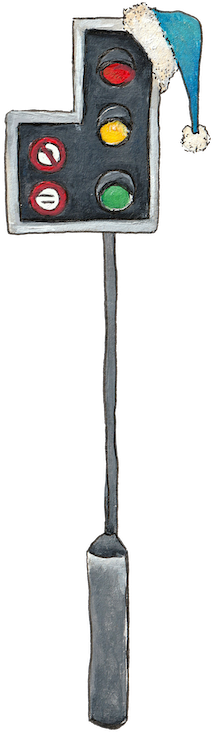
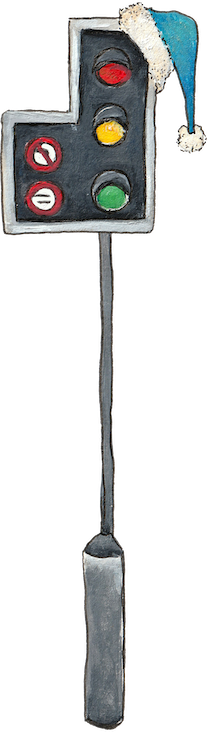
Yet more tweaks to suit small screens

diff --git a/lib/about_the_fair.dart b/lib/about_the_fair.dart
@@ -63,9 +63,9 @@ TableRow eventRow(context, eventTime, eventTitle, [eventSubtitle]) {
 
 // Make a row in the events table. Needed as can't style the entire table or pad an entire row in one go
 
-  var eventsTimeStyle = TextStyle(fontSize: 14, fontWeight: FontWeight.bold, color: Theme.of(context).colorScheme.onPrimary);
-  var eventsTitleStyle = TextStyle(fontSize: 14, color: Theme.of(context).colorScheme.onPrimary);
-  var eventsSubtitleStyle = TextStyle(fontSize: 12, fontStyle: FontStyle.italic, color: Theme.of(context).colorScheme.onPrimary);
+  var eventsTimeStyle = TextStyle(fontSize: 13, fontWeight: FontWeight.bold, color: Theme.of(context).colorScheme.onPrimary, height: 1.2);
+  var eventsTitleStyle = TextStyle(fontSize: 14, color: Theme.of(context).colorScheme.onPrimary, height: 1.2);
+  var eventsSubtitleStyle = TextStyle(fontSize: 12, fontStyle: FontStyle.italic, color: Theme.of(context).colorScheme.onPrimary, height: 1.2);
 
   return TableRow(
     decoration: BoxDecoration(color: Theme.of(context).colorScheme.primary),
@@ -107,7 +107,7 @@ class AboutTheFairPage extends StatelessWidget {
       ),
       body: SingleChildScrollView(
         child: Container(
-          padding: const EdgeInsets.all(16.0),
+          padding: const EdgeInsets.all(10.0),
           child: Column(
             children: [
               const TextImageRow(
@@ -127,14 +127,14 @@ class AboutTheFairPage extends StatelessWidget {
               const SizedBox(height: 12),
               Row(
                 crossAxisAlignment: CrossAxisAlignment.center,
-                mainAxisAlignment: MainAxisAlignment.spaceBetween,
+                mainAxisAlignment: MainAxisAlignment.spaceEvenly,
                 children: [
                   SizedBox(
-                    width: 250,
+                    width: 227,
                     // Flutter tables don't support spanning, so need two of them to do a header row
                     child: Column(children: [Table(
                       columnWidths: const <int, TableColumnWidth>{
-                        0: FixedColumnWidth(250),
+                        0: FixedColumnWidth(227),
                       },
                       defaultVerticalAlignment: TableCellVerticalAlignment.middle,
                       children: <TableRow>[
@@ -155,7 +155,7 @@ class AboutTheFairPage extends StatelessWidget {
                     Table(
                       columnWidths: const <int, TableColumnWidth>{
                         0: FixedColumnWidth(50),
-                        1: FixedColumnWidth(200),
+                        1: FixedColumnWidth(177),
                       },
                       defaultVerticalAlignment: TableCellVerticalAlignment.middle,
                       children: <TableRow>[
@@ -173,8 +173,8 @@ class AboutTheFairPage extends StatelessWidget {
                     )
                   ),
                   SizedBox(
-                    width: 85,
-                    child: Image.asset("assets/aboutPage/MRWF25_trafficlights.png", fit: BoxFit.contain),
+                    width: 70,
+                    child: Image.asset("assets/aboutPage/MRWF25_trafficlights.png", fit: BoxFit.fill, width: 70),
                   ),
                 ],
               ),
